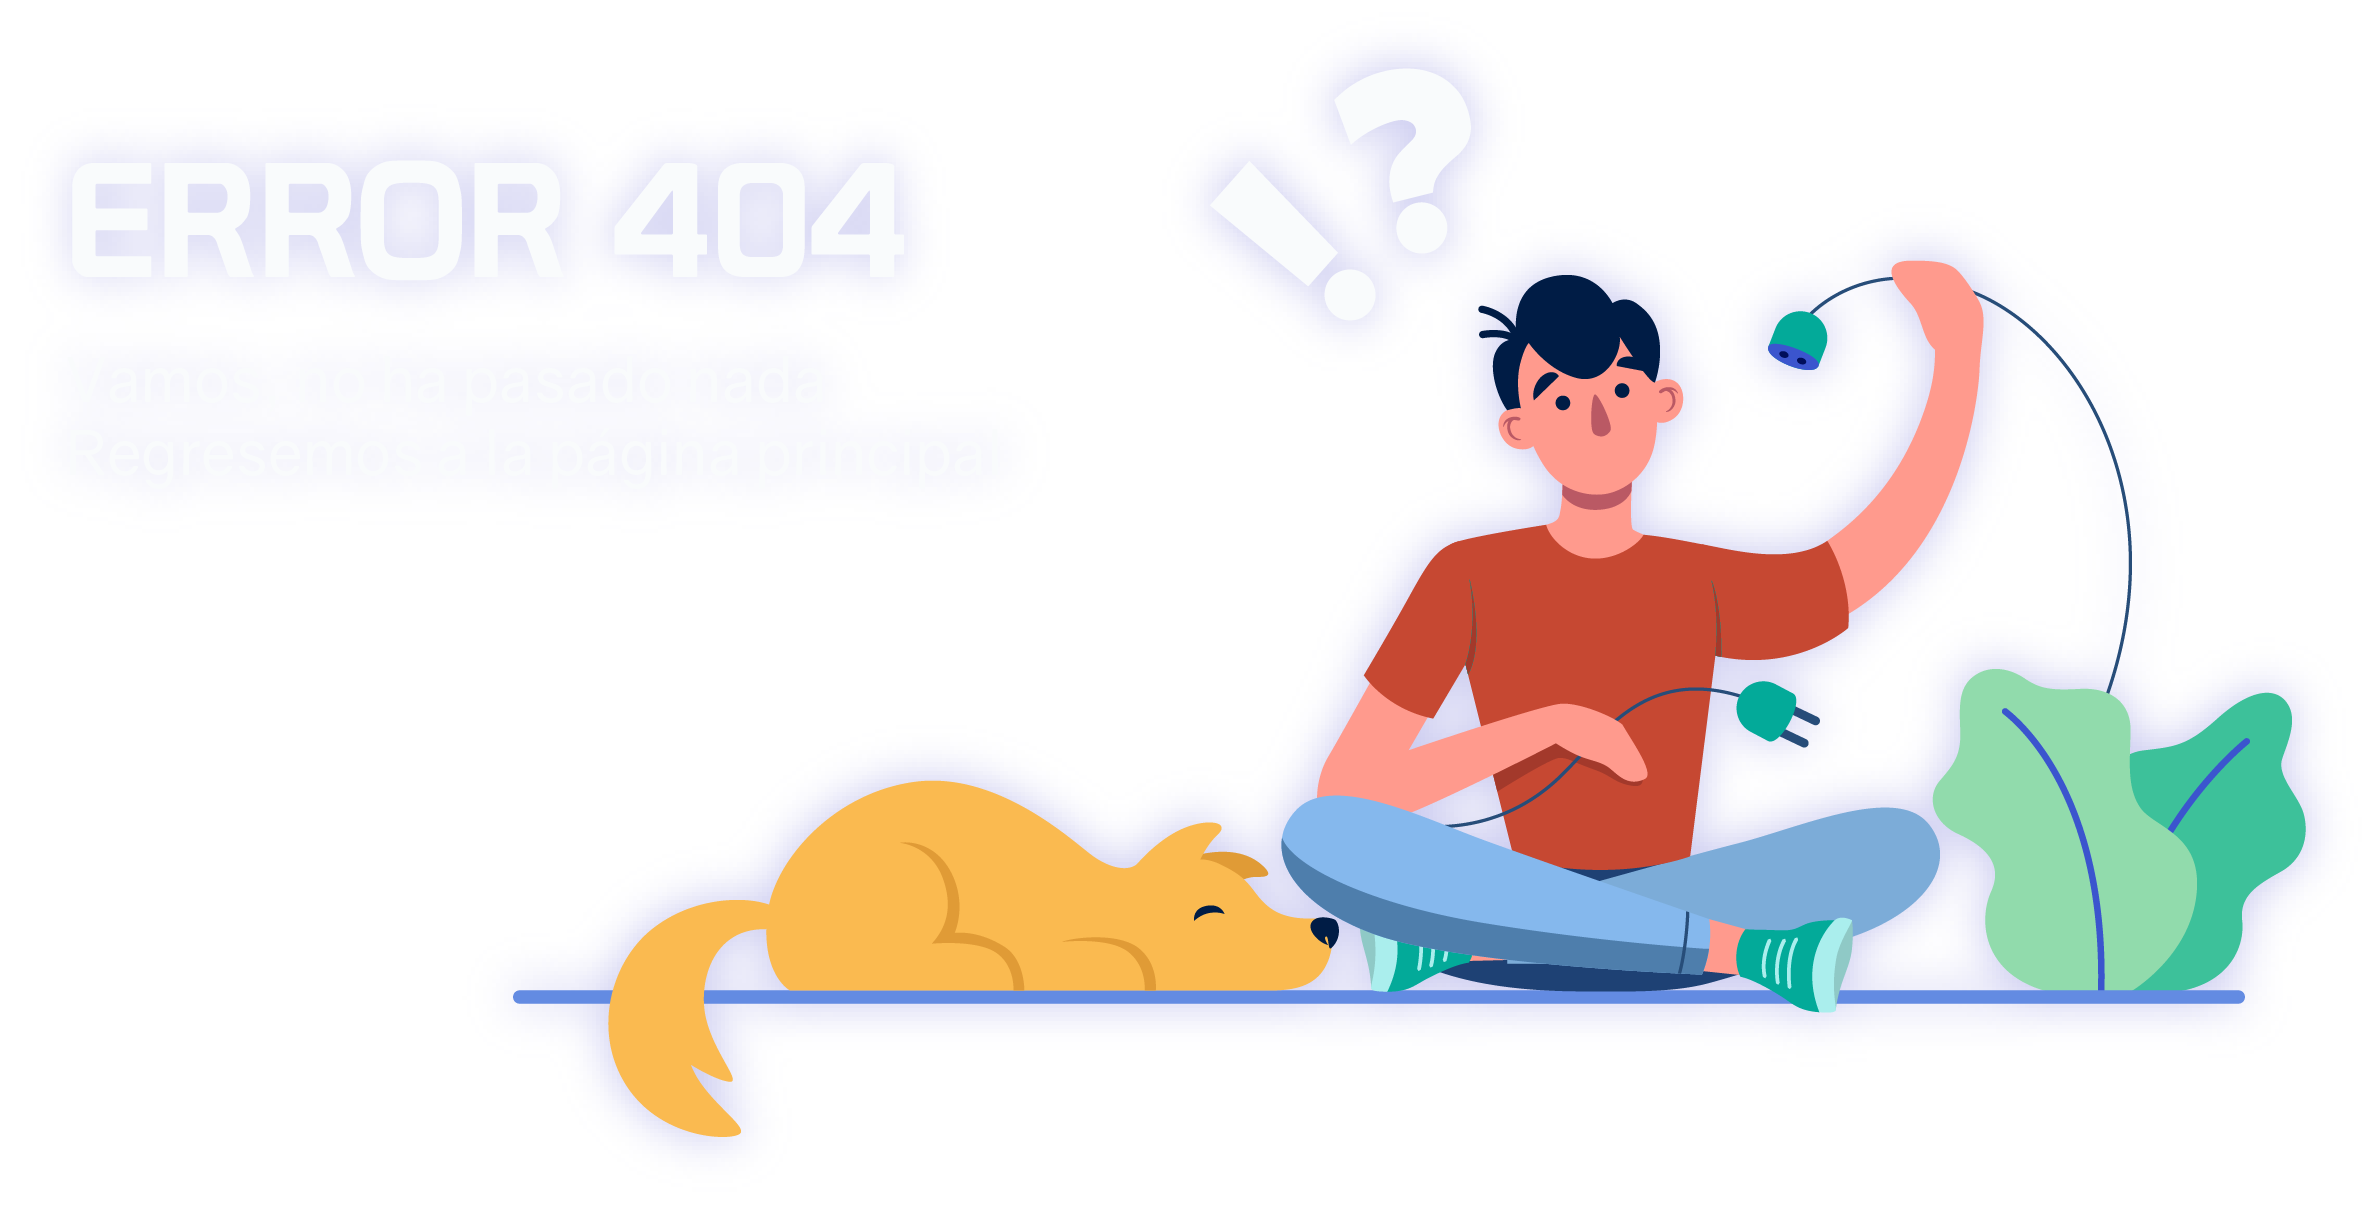
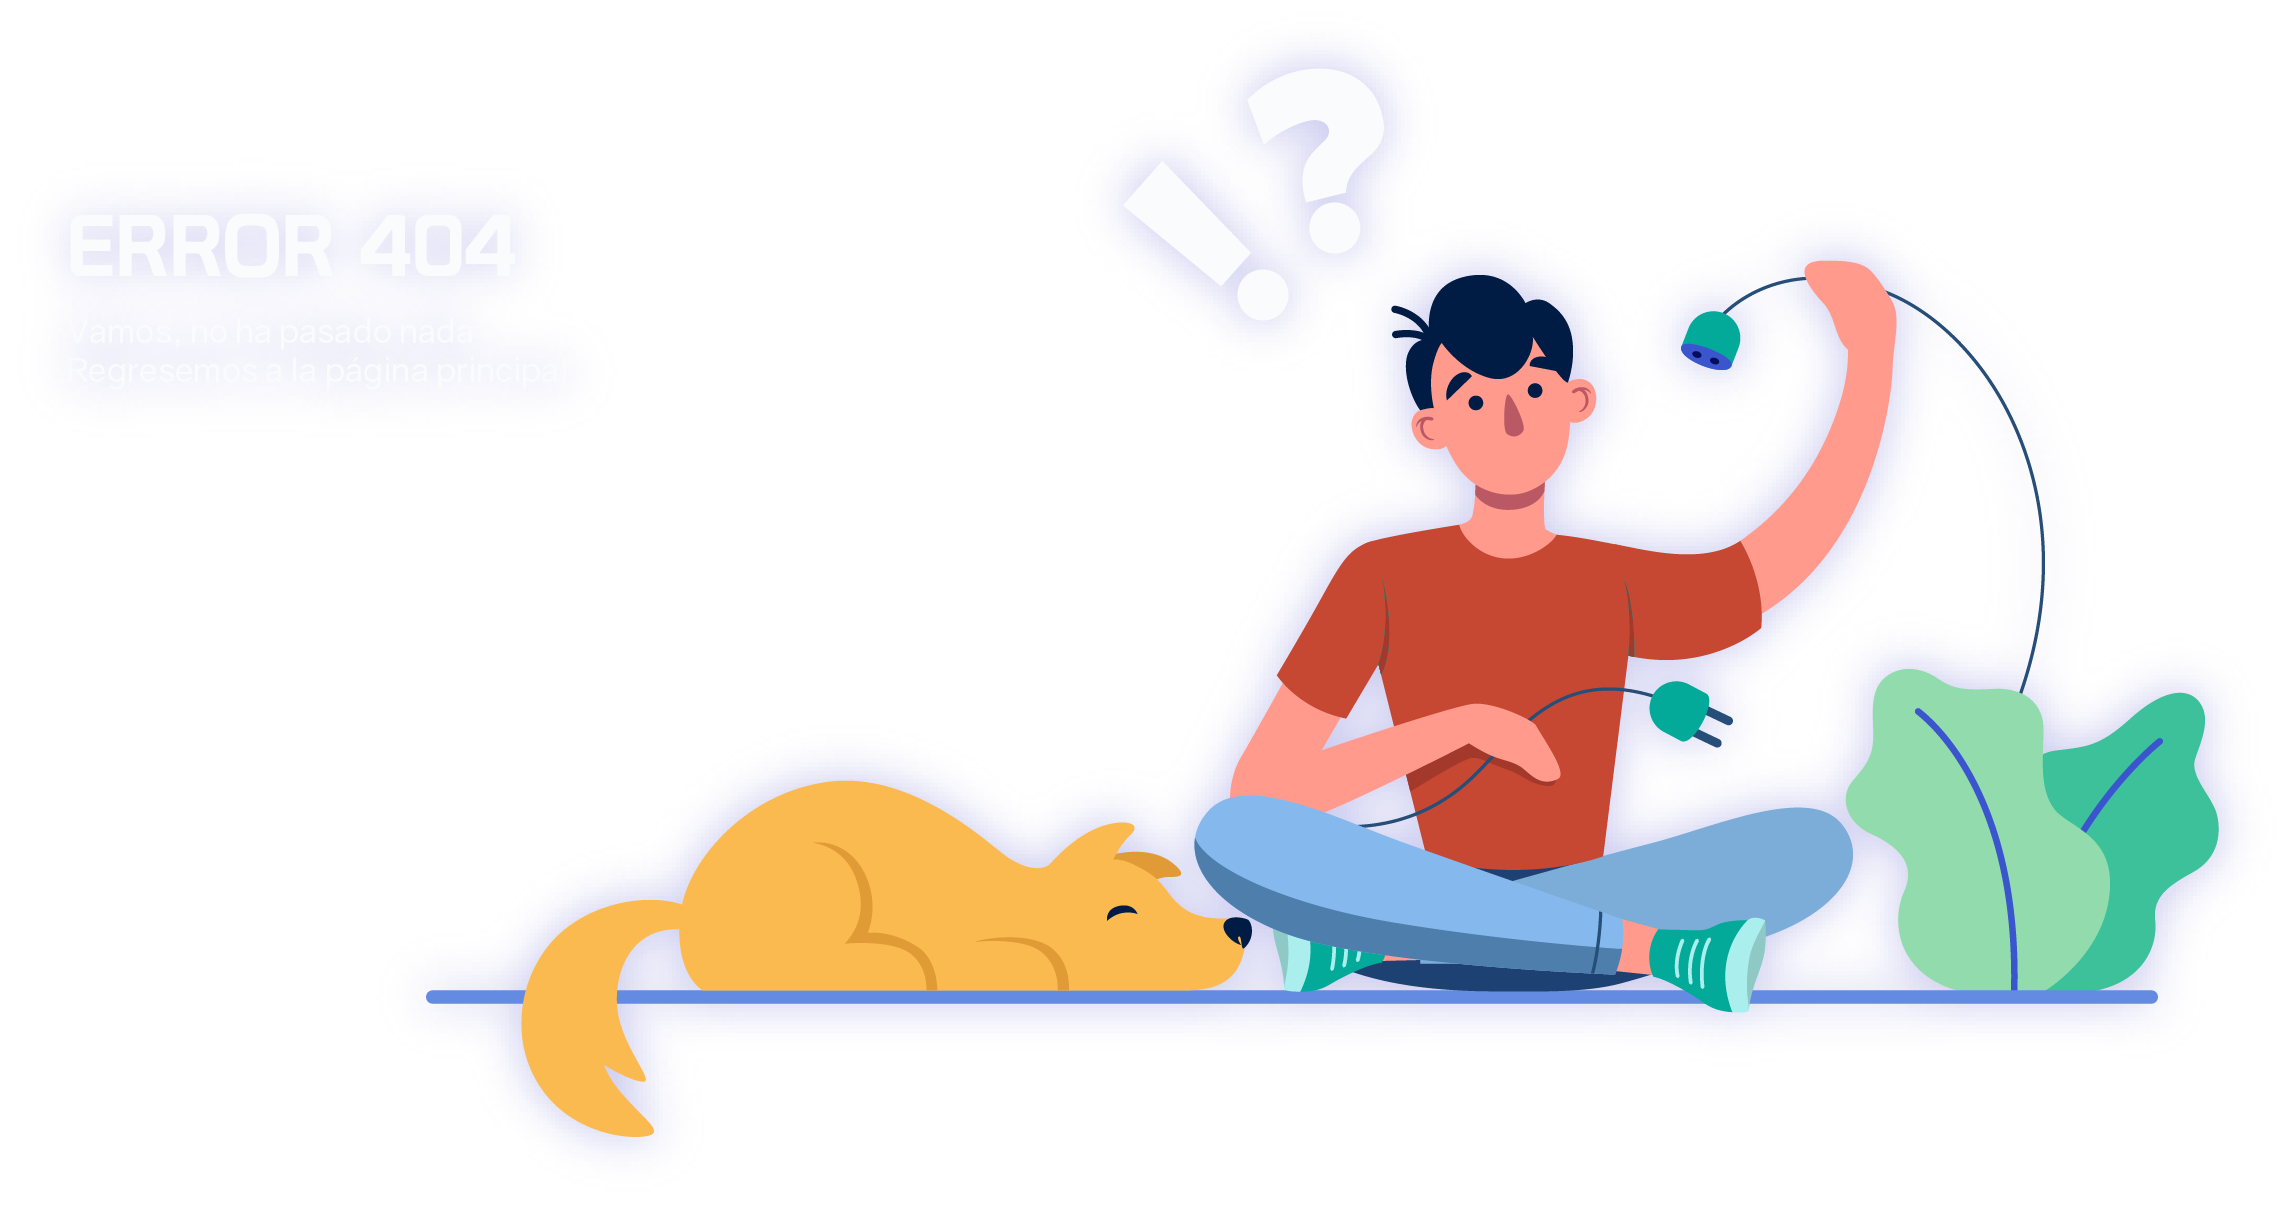
Some 404 errors fixed

diff --git a/404.html b/404.html
@@ -67,7 +67,7 @@
 
             <!-- SHOWCASE -->
             <header class="not-found">
-                <a href="./index.html" class="button" style="margin-right: 750px;;">INICIO<i class="fas fa-angle-double-right"></i
+                <a href="./index.html" class="button" style="margin-right: 1055px; margin-bottom: 100px;">INICIO<i class="fas fa-angle-double-right"></i
                 ></a>
             </header>
 

diff --git a/style.css b/style.css
@@ -104,7 +104,7 @@ hr{
 
 .not-found{
     width: 100%;
-    height: 600px;
+    height: 570px;
     background: url("./img/404.png") no-repeat center center/cover;
     padding-bottom: 50px;
     margin-bottom: 20px;
